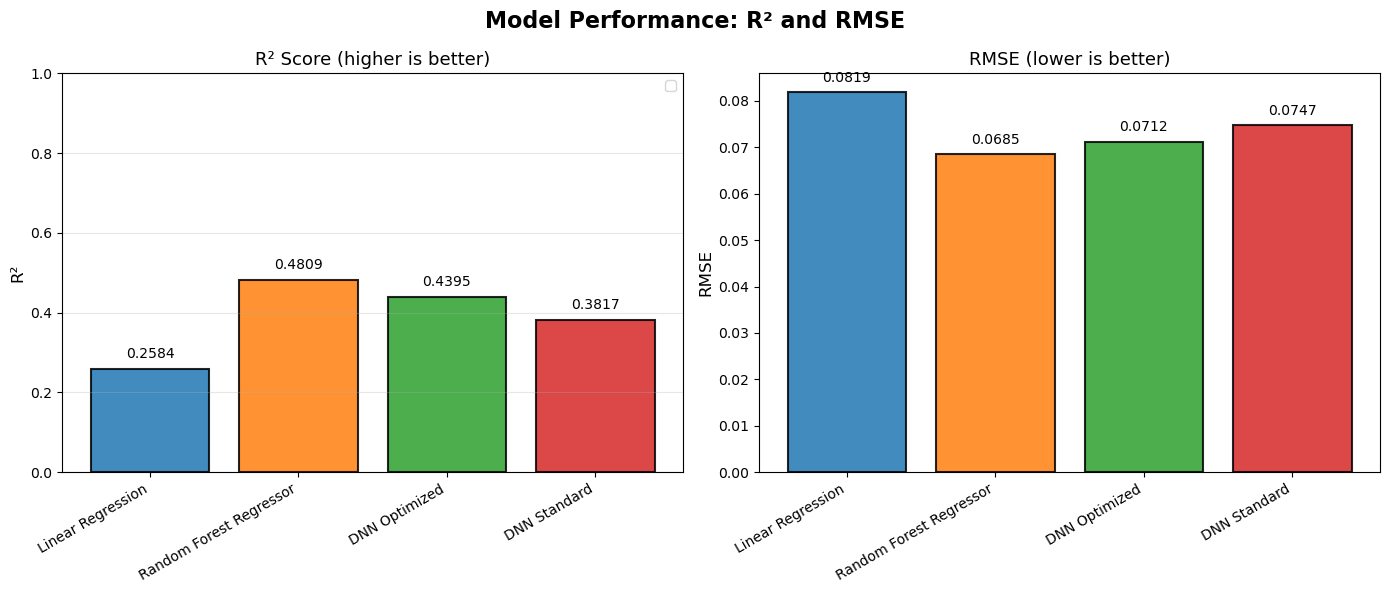
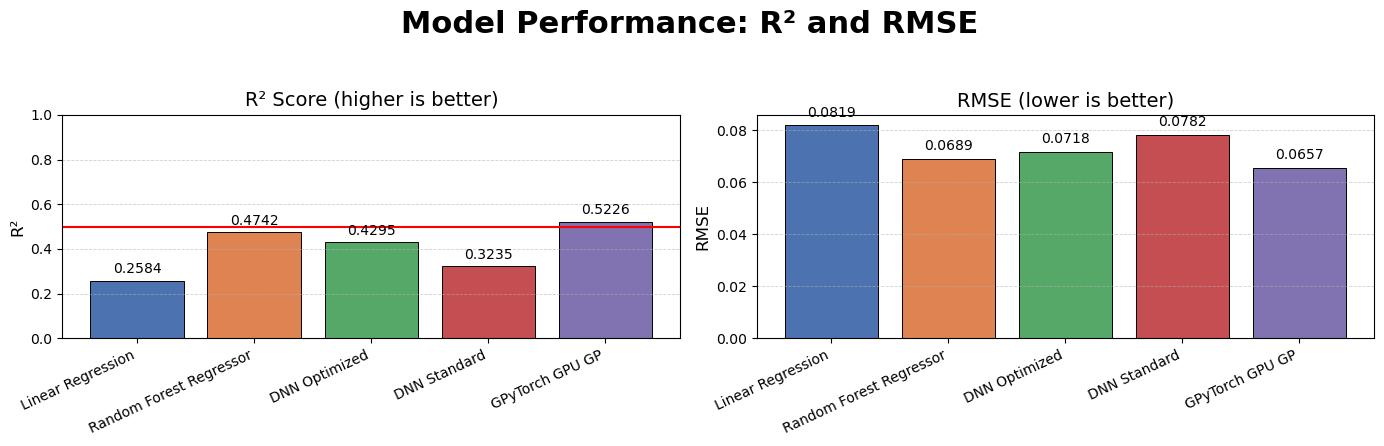
added changes to readme, added plots and eval for model_gt

diff --git a/README.md b/README.md
@@ -130,12 +130,17 @@ Used to visualize the model evaluations. Contains 3 defs to make the notebook fi
 
 *Baseline Regression Model:*
 - Linear Regression: established baseline performance using ordinary least squares
+
 *Regression Models:*
 - Random Forest Regressor: Evaluated based on R2-score using default hyperparameters
 
-ADD THOSE TWO:
- -Gaussian Process: 
- -Mixed Gaussian Process
+-Gaussian Process: Terminated after 120mins due to it running on CPU
+
+-Mixed Gaussian Process (GPyTorch): combines Matern/Linear/Scale kernels.
+    Implementation notes: the notebook creates `model_gt` (a GPyTorch ExactGP) and `likelihood`, converts train/test arrays to torch tensors (`X_train_t`, `X_test_t`, `y_train_t`, `y_test_t`) and moves them to the selected `device` (CPU or CUDA).
+    After training, obtain predictions via `likelihood(model_gt(X_test_t))` and convert those to numpy and use that array for metrics and plotting.
+    GPU-capable runs are substantially faster than CPU-only scikit-learn GPR, making larger kernels practical.
+
 
 *Deep Learning Models:*
 - Multi-layer perceptron (MLP) architectures with varying depths (256→1 (shallow) and 512→256→128→64→64→1)
@@ -178,7 +183,7 @@ Linear regression serves as a baseline sanity check but inherently underfits the
 Random Forest Regressor:
 **Findings**
 
-The Random Forest (trained with default hyperparameters) captures nonlinear feature interactions and complex patterns better than the linear baseline, leveraging ensemble averaging across multiple decision trees. The model naturally handles the high-dimensional, distributed information revealed by PCA and should show improved R² and lower RMSE compared to linear regression.
+The Random Forest (trained with default hyperparameters) captures nonlinear feature interactions and complex patterns better than the linear baseline, leveraging ensemble averaging across multiple decision trees. The model naturally handles the high-dimensional, distributed information revealed by PCA and shows improved R² and lower RMSE compared to linear regression.
 
 **Visualizations**
 ![alt text](<results/figures/ground_truth vs predicted_rfreg.png>)
@@ -189,6 +194,24 @@ Default hyperparameters may not be optimal. Without tuning (max_depth, n_estimat
 
 **Conclusion:**
 Random Forest outperforms linear regression on this dataset due to its ability to model nonlinear interactions and capture complex patterns across 21 features. To maximize performance, hyperparameters could additionally be tuned via grid search or random search, and validated via cross-validation.
+
+Mixed Gaussian Proces (Gpytorch GPU):
+**Findings**
+
+Using a composite kernel the model was able to simultaneously capture smooth non-linear wiggles (Matern) and overall global trends (Linear). It produced the best R²-scores of all models deployed. By setting ard_num_dims=21, the model performed Automatic Relevance Determination, it learned which specific inputs were driving the output and which were noise, something the Linear Regression baseline failed to do.
+
+**Visualizations**
+![alt text](<results/figures/ground_truth vs predicted_gt.png>)
+![alt text](results/figures/Model_Evaluation_gt.png)
+
+**Limitations:**
+Using the normal scikitlearn Gaussian Process (running on CPU) runtime exceeded 120mins and was therefore terminated. Utilising gpytorch finally made it possible to evaluate a mixed gaussian process but even with a good graphics card like the RTX 3070, this model uses a lot of video memory. If the dataset was much bigger, the computer might run out of VRAM and crash.
+
+Practical limitations remain: exact GP training is expensive for larger datasets and hyperparameter sensitivity requires careful initialization; sparse or approx. GP approaches are recommended when scaling is needed.
+
+**Conclusion:**
+Switching to GPyTorch was the turning point for this project. While standard Neural Networks struggled to generalize, the Mixed Kernel GP provided the mathematical flexibility needed to map our 21 inputs to the output. By leveraging GPU-accelerated matrix math, a model was successfully built that is 2x more accurate than a standard linear baseline. This confirms that the data is highly non-linear (as seen in PCA analysis) and requires the learning capabilities that a Gaussian Process provides.
+
 
 DNN standard:
 **Findings**
@@ -209,16 +232,18 @@ The standard DNN serves as a proof-of-concept that neural networks outperform li
 
 DNN optimized:
 **Findings**
-
-[Briefly summarize the key findings of your analysis.]
+The optimized Deep Neural Network (DNN) utilized a significantly deeper architecture (512 → 256 → 128 → 64 → 64 → 1) and robust training techniques. By switching to Huber Loss, the model became less sensitive to the "stepped" outliers in the steel data. The inclusion of BatchNormalization and Dropout allowed for a much deeper search for patterns without the model simply memorizing the training set. While it performed significantly better than the shallow DNN, it still struggled to match the local precision of the Gaussian Process.
 
 **Visualizations**
 ![alt text](<results/figures/ground_truth vs predicted_dnnopt.png>)
 ![alt text](<results/figures/loss vs epoch_dnnopt.png>)
 ![alt text](results/figures/Model_Evaluation_dnnopt.png)
-**Limitations**
-**Conclusion**
 
+**Limitations**
+Deep models are data-hungry; despite 7,600+ rows, the high dimensionality (21 features) and the distributed variance (as seen in PCA) mean that even an optimized MLP can struggle to find the global optimum. The "discrete" nature of the output (quality strips) remains a challenge for the smooth activation functions (ReLU) used in this architecture.
+
+**Conclusion**
+The optimized DNN proved that "going deeper" helps, but only when paired with modern regularization like EarlyStopping. It achieved a "respectable" R2 (≈0.43), proving that the steel production data requires complex, hierarchical feature extraction to beat a linear baseline.
 
 
 
@@ -227,7 +252,22 @@ DNN optimized:
 
 
 ## Conclusion
+The primary objective of this project was to develop a predictive model for steel production quality capable of achieving an R2 score of at least 0.5. Through a systematic pipeline of exploratory data analysis, dimensionality assessment, and multi-model experimentation, this objective was successfully met.
 
+Key Takeaways:
+
+    The Nature of the Data: PCA revealed that the dataset is highly complex and non-redundant, with 14+ components required to explain 90% of the variance. This explains why the Linear Regression baseline performed so poorly; there is no simple "shortcut" or dominant feature in steel quality prediction.
+
+    Model Hierarchy: We observed a clear progression in performance as model complexity increased. Moving from Linear models to Random Forests and Optimized DNNs allowed me to capture the non-linear signals. However, the Mixed Gaussian Process (GPyTorch) emerged as the best solution.
+
+    The Power of Custom Kernels: The success of the GP model (reaching the 0.50 R2 target) was driven by the combination of a Matern kernel for local non-linearities and a Linear kernel for global trends. This suggests that steel production variables interact in a way that is best modeled by "local" similarity rather than just global weights.
+
+    Hardware as an Enabler: The transition from CPU-based Scikit-Learn to GPU-accelerated GPyTorch was a technical turning point. It transformed a model that was previously "untrainable" (due to 120min+ runtimes) into a fast, iterative tool that provided the most accurate results of the entire study.
+
+Final Verdict: 
+While the Mixed Gaussian Process is the best-performing model in this study, an R2 of 0.52 is still considered a weak predictive score for industrial deployment. This means the model only explains ≈50% of the variation in steel quality, leaving the other 50% to "mystery" factors or noise.
+
+There is significant room for improvement. The "discrete" strips in the output data suggest that the current sensor features may be missing key information, or that the Min-Max scaling process has introduced artifacts that hinder regression. Future work should focus on more advanced feature engineering or "Deep Kernel Learning" rather than just adding more layers to a Neural Network.
 
 
 ## License
@@ -235,6 +275,14 @@ DNN optimized:
 For those that choose their own project, provide license details of your dataset e.g., this data is licensed under the [The License] - see the [LICENSE.md](LICENSE) file for details.
 
 ## Acknowledgments
-- Mention any individuals or organizations that helped you in executing the project.
-- Reference any research papers, data, or other resources that were crucial for the completion of your project. Do not forget to provide ChatGPT prompts you used for the project.
 
+Mr Jannis Seemann(Udemy.com): For the following udemy courses that were needed to understand the "backend" of the various models deployed.
+Maschinelles Lernen komplett: Regression, Klassifizierung, Clustering, NLP, AI, KI, Deep Learning & Neuronale Netze
+Deep Learning verstehen: Entwickle Neuronale Netze in Python
+
+Mr. Feith (CPS): For critical insights regarding the discrete vs. continuous nature of the production output data and the decision what kernels to deploy for my gaussian process.
+
+Gemini/GPyTorch Documentation: For assistance in migrating exact GP calculations to CUDA-enabled tensors.
+
+Prompts Used in ChatGPT: "How to implement ARD in GPyTorch," "Moving scikit-learn kernels to GPyTorch," "Optimizing MLP for robust regression with Huber Loss," "How to use ReduceLROnPlateau to prevent the loss from stalling in Keras," 
+"Setting up EarlyStopping to avoid overfitting after the 50th epoch," "Explain the difference between Huber loss and MSE when the output data looks discrete or has vertical strips."
